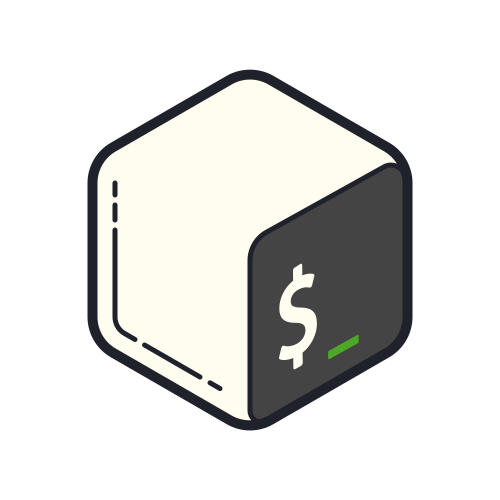
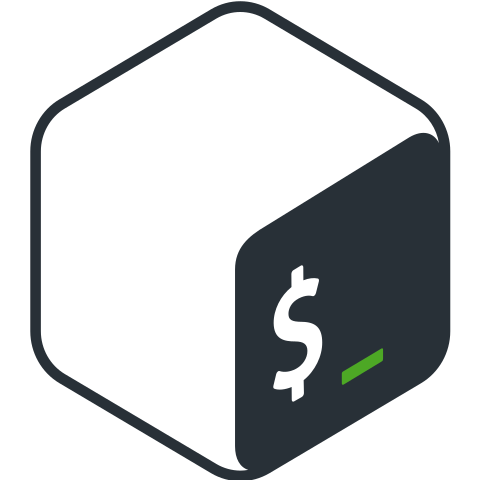
changes to README.md

diff --git a/README.md b/README.md
@@ -33,7 +33,7 @@
 <br>
 
 <h3 align="left">Languages and Tools:</h3>
-<p align="left"> <a href="https://angular.io" target="_blank"> <img src="https://devicons.github.io/devicon/devicon.git/icons/angularjs/angularjs-original.svg" alt="angularjs" width="40" height="40"/> </a> <a href="https://babeljs.io/" target="_blank"> <img src="https://www.vectorlogo.zone/logos/babeljs/babeljs-icon.svg" alt="babel" width="40" height="40"/> </a> <a href="https://www.gnu.org/software/bash/" target="_blank"> <img src="https://github.com/martimdLima/martimdLima/blob/main/resources/techs/bash.jpg" alt="bash" width="40" height="40"/> </a> <a href="" target="_blank"> <img src="https://download.blender.org/branding/community/blender_community_badge_white.svg" alt="blender" width="40" height="40"/> </a> <a href="https://getbootstrap.com" target="_blank"> <img src="https://devicons.github.io/devicon/devicon.git/icons/bootstrap/bootstrap-plain.svg" alt="bootstrap" width="40" height="40"/> </a> <a href="https://www.w3schools.com/css/" target="_blank"> <img src="https://devicons.github.io/devicon/devicon.git/icons/css3/css3-original-wordmark.svg" alt="css3" width="40" height="40"/> </a> <a href="https://www.docker.com/" target="_blank"> <img src="https://devicons.github.io/devicon/devicon.git/icons/docker/docker-original-wordmark.svg" alt="docker" width="40" height="40"/> </a> <a href="https://expressjs.com" target="_blank"> <img src="https://devicons.github.io/devicon/devicon.git/icons/express/express-original-wordmark.svg" alt="express" width="40" height="40"/> </a> <a href="https://firebase.google.com/" target="_blank"> <img src="https://www.vectorlogo.zone/logos/firebase/firebase-icon.svg" alt="firebase" width="40" height="40"/> </a> <a href="https://git-scm.com/" target="_blank"> <img src="https://www.vectorlogo.zone/logos/git-scm/git-scm-icon.svg" alt="git" width="40" height="40"/> </a> <a href="https://graphql.org" target="_blank"> <img src="https://www.vectorlogo.zone/logos/graphql/graphql-icon.svg" alt="graphql" width="40" height="40"/> </a> <a href="https://www.w3.org/html/" target="_blank"> <img src="https://devicons.github.io/devicon/devicon.git/icons/html5/html5-original-wordmark.svg" alt="html5" width="40" height="40"/> </a> <a href="https://www.java.com" target="_blank"> <img src="https://devicons.github.io/devicon/devicon.git/icons/java/java-original-wordmark.svg" alt="java" width="40" height="40"/> </a> <a href="https://developer.mozilla.org/en-US/docs/Web/JavaScript" target="_blank"> <img src="https://devicons.github.io/devicon/devicon.git/icons/javascript/javascript-original.svg" alt="javascript" width="40" height="40"/> </a> <a href="https://www.jenkins.io" target="_blank"> <img src="https://www.vectorlogo.zone/logos/jenkins/jenkins-icon.svg" alt="jenkins" width="40" height="40"/> </a> <a href="https://kubernetes.io" target="_blank"> <img src="https://www.vectorlogo.zone/logos/kubernetes/kubernetes-icon.svg" alt="kubernetes" width="40" height="40"/> </a> <a href="https://www.linux.org/" target="_blank"> <img src="https://devicons.github.io/devicon/devicon.git/icons/linux/linux-original.svg" alt="linux" width="40" height="40"/> </a> <a href="https://mariadb.org/" target="_blank"> <img src="https://www.vectorlogo.zone/logos/mariadb/mariadb-icon.svg" alt="mariadb" width="40" height="40"/> </a> <a href="https://mochajs.org" target="_blank"> <img src="https://www.vectorlogo.zone/logos/mochajs/mochajs-icon.svg" alt="mocha" width="40" height="40"/> </a> <a href="https://www.mongodb.com/" target="_blank"> <img src="https://devicons.github.io/devicon/devicon.git/icons/mongodb/mongodb-original-wordmark.svg" alt="mongodb" width="40" height="40"/> </a> <a href="https://www.mysql.com/" target="_blank"> <img src="https://devicons.github.io/devicon/devicon.git/icons/mysql/mysql-original-wordmark.svg" alt="mysql" width="40" height="40"/> </a> <a href="https://www.nginx.com" target="_blank"> <img src="https://devicons.github.io/devicon/devicon.git/icons/nginx/nginx-original.svg" alt="nginx" width="40" height="40"/> </a> <a href="https://nodejs.org" target="_blank"> <img src="https://devicons.github.io/devicon/devicon.git/icons/nodejs/nodejs-original-wordmark.svg" alt="nodejs" width="40" height="40"/> </a> <a href="https://www.oracle.com/" target="_blank"> <img src="https://devicons.github.io/devicon/devicon.git/icons/oracle/oracle-original.svg" alt="oracle" width="40" height="40"/> </a> <a href="https://www.postgresql.org" target="_blank"> <img src="https://devicons.github.io/devicon/devicon.git/icons/postgresql/postgresql-original-wordmark.svg" alt="postgresql" width="40" height="40"/> </a> <a href="https://pugjs.org" target="_blank"> <img src="https://cdn.worldvectorlogo.com/logos/pug.svg" alt="pug" width="40" height="40"/> </a> <a href="https://www.python.org" target="_blank"> <img src="https://devicons.github.io/devicon/devicon.git/icons/python/python-original.svg" alt="python" width="40" height="40"/> </a> <a href="https://quasar.dev/" target="_blank"> <img src="https://cdn.quasar.dev/logo/svg/quasar-logo.svg" alt="quasar" width="40" height="40"/> </a> <a href="https://reactjs.org/" target="_blank"> <img src="https://devicons.github.io/devicon/devicon.git/icons/react/react-original-wordmark.svg" alt="react" width="40" height="40"/> </a> <a href="https://www.selenium.dev" target="_blank"> <img src="https://raw.githubusercontent.com/detain/svg-logos/780f25886640cef088af994181646db2f6b1a3f8/svg/selenium-logo.svg" alt="selenium" width="40" height="40"/> </a> <a href="https://spring.io/projects/spring-framework" target="_blank"> <img src="https://www.vectorlogo.zone/logos/springio/springio-icon.svg" alt="spring" width="40" height="40"/> </a> <a href="https://www.typescriptlang.org/" target="_blank"> <img src="https://devicons.github.io/devicon/devicon.git/icons/typescript/typescript-original.svg" alt="typescript" width="40" height="40"/> </a> <a href="https://www.vim.org/" target="_blank"> <img src="https://github.com/martimdLima/martimdLima/blob/main/resources/techs/vim.png" alt="vim" width="40" height="40"/> </a> <a href="https://www.gnu.org/software/emacs/" target="_blank"> <img src="https://github.com/martimdLima/martimdLima/blob/main/resources/techs/emacs.png" alt="emacs" width="40" height="40"/> </a> <a href="https://manjaro.org/" target="_blank"> <img src="https://github.com/martimdLima/martimdLima/blob/main/resources/techs/manjaro.png" alt="mysql" width="40" height="40"/> </a>
+<p align="left"> <a href="https://angular.io" target="_blank"> <img src="https://devicons.github.io/devicon/devicon.git/icons/angularjs/angularjs-original.svg" alt="angularjs" width="40" height="40"/> </a> <a href="https://babeljs.io/" target="_blank"> <img src="https://www.vectorlogo.zone/logos/babeljs/babeljs-icon.svg" alt="babel" width="40" height="40"/> </a> <a href="https://www.gnu.org/software/bash/" target="_blank"> <img src="https://github.com/martimdLima/martimdLima/blob/main/resources/techs/bash3.jpg" alt="bash" width="40" height="40"/> </a> <a href="" target="_blank"> <img src="https://download.blender.org/branding/community/blender_community_badge_white.svg" alt="blender" width="40" height="40"/> </a> <a href="https://getbootstrap.com" target="_blank"> <img src="https://devicons.github.io/devicon/devicon.git/icons/bootstrap/bootstrap-plain.svg" alt="bootstrap" width="40" height="40"/> </a> <a href="https://www.w3schools.com/css/" target="_blank"> <img src="https://devicons.github.io/devicon/devicon.git/icons/css3/css3-original-wordmark.svg" alt="css3" width="40" height="40"/> </a> <a href="https://www.docker.com/" target="_blank"> <img src="https://devicons.github.io/devicon/devicon.git/icons/docker/docker-original-wordmark.svg" alt="docker" width="40" height="40"/> </a> <a href="https://expressjs.com" target="_blank"> <img src="https://devicons.github.io/devicon/devicon.git/icons/express/express-original-wordmark.svg" alt="express" width="40" height="40"/> </a> <a href="https://firebase.google.com/" target="_blank"> <img src="https://www.vectorlogo.zone/logos/firebase/firebase-icon.svg" alt="firebase" width="40" height="40"/> </a> <a href="https://git-scm.com/" target="_blank"> <img src="https://www.vectorlogo.zone/logos/git-scm/git-scm-icon.svg" alt="git" width="40" height="40"/> </a> <a href="https://graphql.org" target="_blank"> <img src="https://www.vectorlogo.zone/logos/graphql/graphql-icon.svg" alt="graphql" width="40" height="40"/> </a> <a href="https://www.w3.org/html/" target="_blank"> <img src="https://devicons.github.io/devicon/devicon.git/icons/html5/html5-original-wordmark.svg" alt="html5" width="40" height="40"/> </a> <a href="https://www.java.com" target="_blank"> <img src="https://devicons.github.io/devicon/devicon.git/icons/java/java-original-wordmark.svg" alt="java" width="40" height="40"/> </a> <a href="https://developer.mozilla.org/en-US/docs/Web/JavaScript" target="_blank"> <img src="https://devicons.github.io/devicon/devicon.git/icons/javascript/javascript-original.svg" alt="javascript" width="40" height="40"/> </a> <a href="https://www.jenkins.io" target="_blank"> <img src="https://www.vectorlogo.zone/logos/jenkins/jenkins-icon.svg" alt="jenkins" width="40" height="40"/> </a> <a href="https://kubernetes.io" target="_blank"> <img src="https://www.vectorlogo.zone/logos/kubernetes/kubernetes-icon.svg" alt="kubernetes" width="40" height="40"/> </a> <a href="https://www.linux.org/" target="_blank"> <img src="https://devicons.github.io/devicon/devicon.git/icons/linux/linux-original.svg" alt="linux" width="40" height="40"/> </a> <a href="https://mariadb.org/" target="_blank"> <img src="https://www.vectorlogo.zone/logos/mariadb/mariadb-icon.svg" alt="mariadb" width="40" height="40"/> </a> <a href="https://mochajs.org" target="_blank"> <img src="https://www.vectorlogo.zone/logos/mochajs/mochajs-icon.svg" alt="mocha" width="40" height="40"/> </a> <a href="https://www.mongodb.com/" target="_blank"> <img src="https://devicons.github.io/devicon/devicon.git/icons/mongodb/mongodb-original-wordmark.svg" alt="mongodb" width="40" height="40"/> </a> <a href="https://www.mysql.com/" target="_blank"> <img src="https://devicons.github.io/devicon/devicon.git/icons/mysql/mysql-original-wordmark.svg" alt="mysql" width="40" height="40"/> </a> <a href="https://www.nginx.com" target="_blank"> <img src="https://devicons.github.io/devicon/devicon.git/icons/nginx/nginx-original.svg" alt="nginx" width="40" height="40"/> </a> <a href="https://nodejs.org" target="_blank"> <img src="https://devicons.github.io/devicon/devicon.git/icons/nodejs/nodejs-original-wordmark.svg" alt="nodejs" width="40" height="40"/> </a> <a href="https://www.oracle.com/" target="_blank"> <img src="https://devicons.github.io/devicon/devicon.git/icons/oracle/oracle-original.svg" alt="oracle" width="40" height="40"/> </a> <a href="https://www.postgresql.org" target="_blank"> <img src="https://devicons.github.io/devicon/devicon.git/icons/postgresql/postgresql-original-wordmark.svg" alt="postgresql" width="40" height="40"/> </a> <a href="https://pugjs.org" target="_blank"> <img src="https://cdn.worldvectorlogo.com/logos/pug.svg" alt="pug" width="40" height="40"/> </a> <a href="https://www.python.org" target="_blank"> <img src="https://devicons.github.io/devicon/devicon.git/icons/python/python-original.svg" alt="python" width="40" height="40"/> </a> <a href="https://quasar.dev/" target="_blank"> <img src="https://cdn.quasar.dev/logo/svg/quasar-logo.svg" alt="quasar" width="40" height="40"/> </a> <a href="https://reactjs.org/" target="_blank"> <img src="https://devicons.github.io/devicon/devicon.git/icons/react/react-original-wordmark.svg" alt="react" width="40" height="40"/> </a> <a href="https://www.selenium.dev" target="_blank"> <img src="https://raw.githubusercontent.com/detain/svg-logos/780f25886640cef088af994181646db2f6b1a3f8/svg/selenium-logo.svg" alt="selenium" width="40" height="40"/> </a> <a href="https://spring.io/projects/spring-framework" target="_blank"> <img src="https://www.vectorlogo.zone/logos/springio/springio-icon.svg" alt="spring" width="40" height="40"/> </a> <a href="https://www.typescriptlang.org/" target="_blank"> <img src="https://devicons.github.io/devicon/devicon.git/icons/typescript/typescript-original.svg" alt="typescript" width="40" height="40"/> </a> <a href="https://www.vim.org/" target="_blank"> <img src="https://github.com/martimdLima/martimdLima/blob/main/resources/techs/vim.png" alt="vim" width="40" height="40"/> </a> <a href="https://www.gnu.org/software/emacs/" target="_blank"> <img src="https://github.com/martimdLima/martimdLima/blob/main/resources/techs/emacs.png" alt="emacs" width="40" height="40"/> </a> <a href="https://manjaro.org/" target="_blank"> <img src="https://github.com/martimdLima/martimdLima/blob/main/resources/techs/manjaro.png" alt="mysql" width="40" height="40"/> </a>
 </p> 
 
 <br><br>
